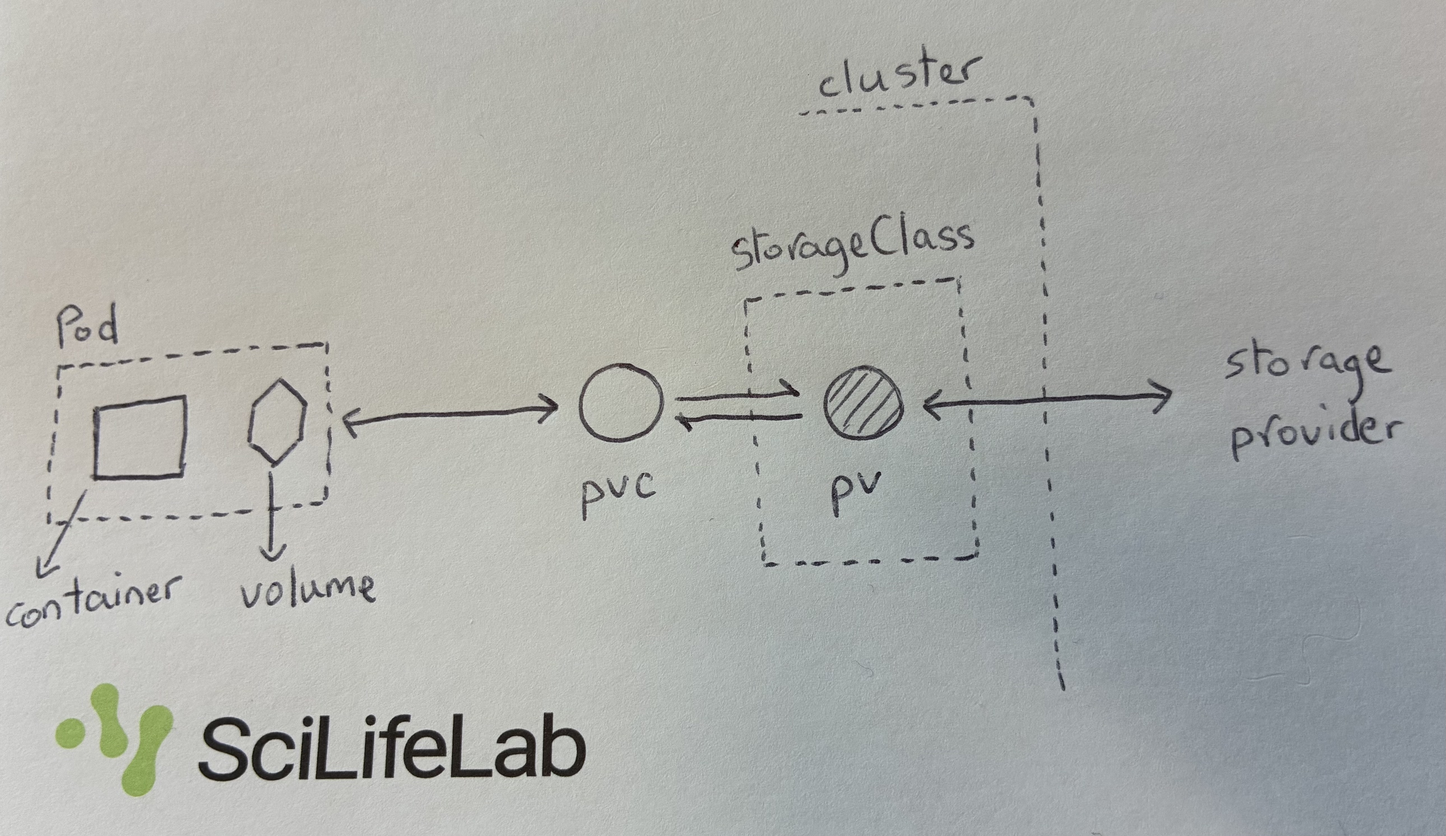
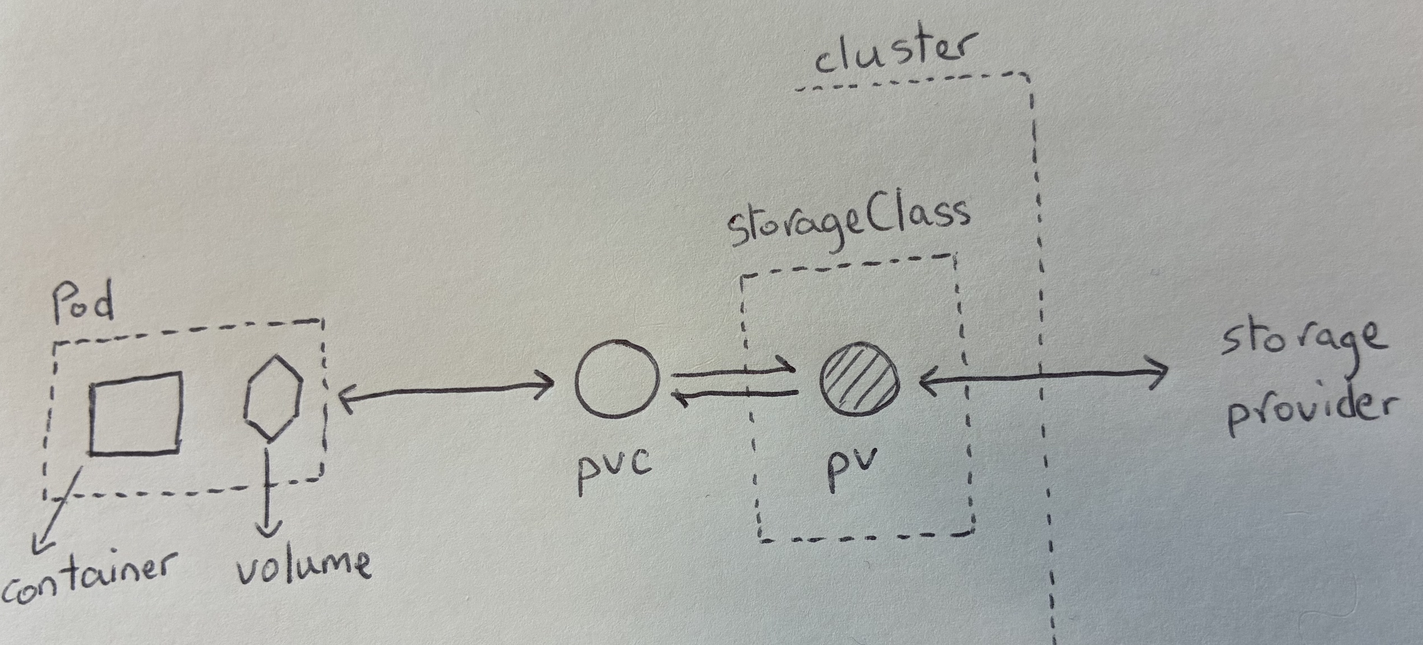
update storage in k8s article

diff --git a/templates/blog/storage_in_k8s.html b/templates/blog/storage_in_k8s.html
@@ -20,7 +20,7 @@
     <div class="container single-col-max-width">
       <header class="blog-post-header">
         <h2 class="title mb-2">Storage in Kubernetes</h2>
-        <div class="meta mb-3"><span class="date">September 2024</span><span class="time">3 min read</span></div>
+        <div class="meta mb-3"><span class="date">April 2026</span><span class="time">3 min read</span></div>
       </header>
 
       <div class="blog-post-body">
@@ -48,7 +48,9 @@
 
         <p>The image below describes the different parts of storage on K8s at DC.</p>
 
-        <img class="img-fluid" width="50%" src="{% static 'assets/images/storage_in_k8s/volumes.jpeg' %}" alt="image">
+        <div style="text-align: center;">
+          <img class="img-fluid" width="70%" src="{% static 'assets/images/storage_in_k8s/volumes.jpeg' %}" alt="image">
+        </div>
 
         <br>
       </div>
